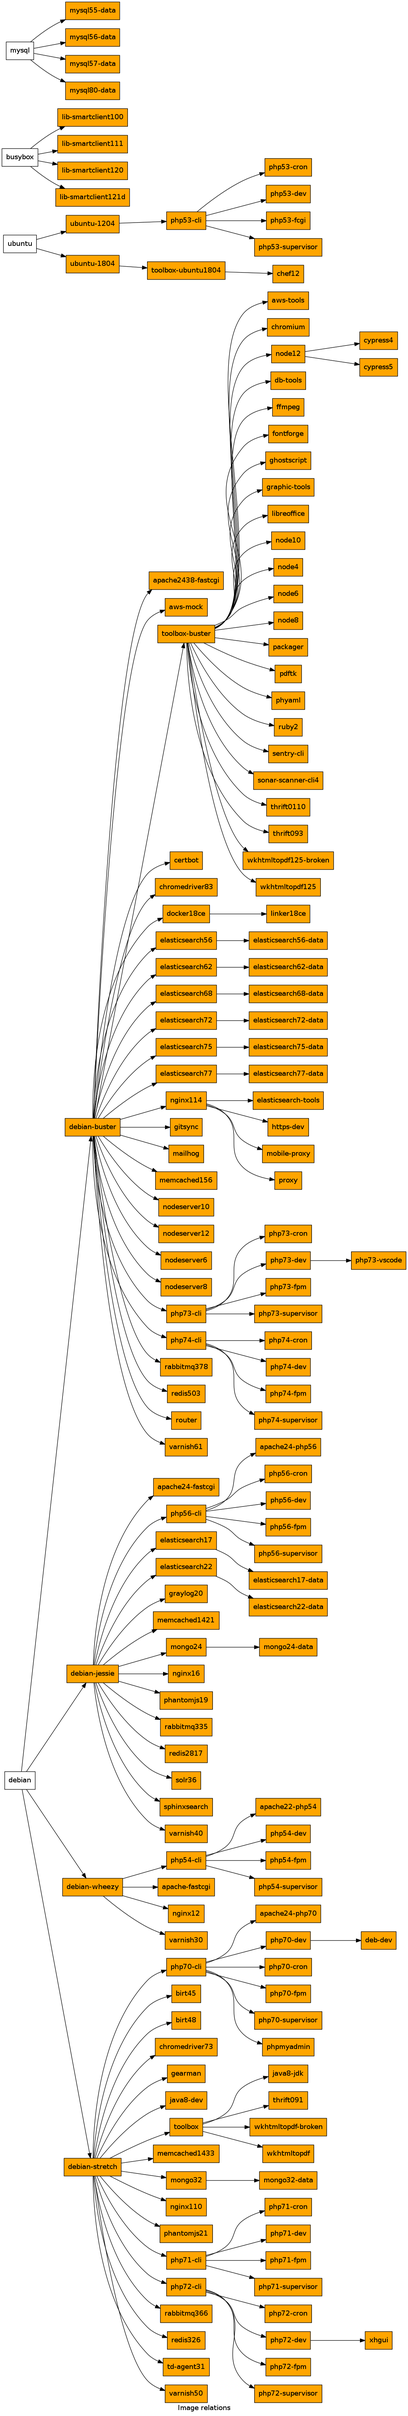
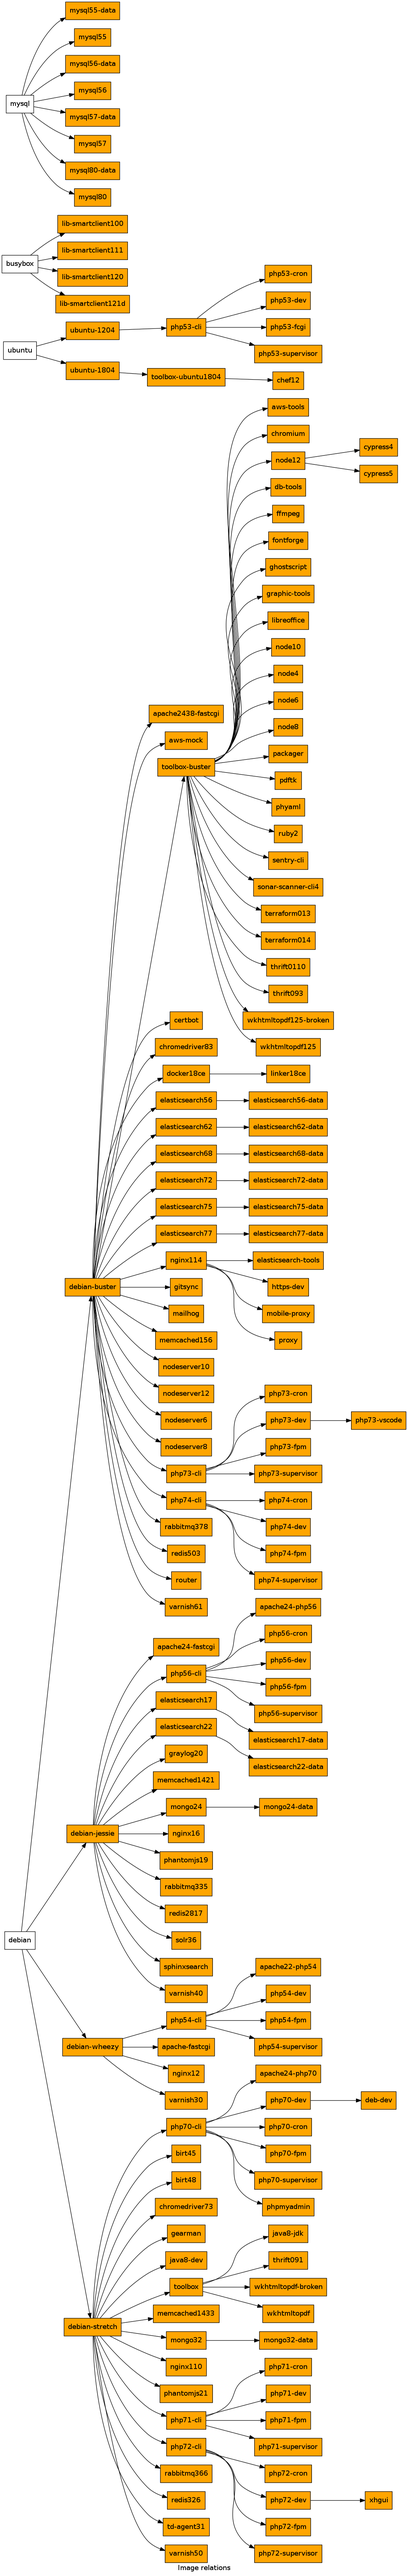
Terraform 0.14 and 0.13 containers added (#39)
* Terraform 0.14 and 0.13 containers added

* Regenerated image_relations

* Terraform image building fix

* Terraform013 image README typo fix

diff --git a/terraform013/README.md b/terraform013/README.md
@@ -1,0 +1,97 @@
+## Terraform toolbox
+
+### Info
+This is an image of terraform 0.13
+
+For help with Terraform visit project [homepage](https://www.terraform.io/docs/index.html) for documentation and guides.
+
+### Global packages
+This image has pre-installed terraform development tool
+
+ - Terraform
+
+### Configuration
+Available binary paths for export:
+
+- /usr/local/bin/terraform
+
+To auth via env vars passed to dev container use
+something like this in your init script to place
+them in the .aws dir for terraform to find them
+on execution.
+
+```bash
+until terraform --version &>/dev/null
+do
+	sleep 1
+	echo Waiting for terraform link ...
+done
+
+aws configure set aws_access_key_id "${NFQ_SECRET_AWS_ACCESS_KEY_ID}"
+aws configure set aws_secret_access_key "${NFQ_SECRET_AWS_SECRET_ACCESS_KEY}"
+```
+
+### Sample configuration for runing as tool
+```
+version: '2.4'
+services:
+  dev:
+    image: nfqlt/php73-dev
+    ports:
+      - '10.24.1.241:22:22'
+    volumes_from:
+      - 'service:terraform:rw'
+    volumes:
+      - './src:/home/project/src'
+      - '/home/project/.ssh:/home/project/.ssh'
+      - '/etc/ssh:/etc/ssh'
+      - '/etc/gitconfig:/etc/gitconfig'
+      - '/etc/environment:/etc/environment-vm:ro'
+      - '/vagrant/bash_custom:/home/project/.bash_custom'
+    environment:
+      NFQ_PROJECT_ROOT: /home/project/src
+      NFQ_PROJECT_GIT_REPO: 'git@github.com:group/project.git'
+      NFQ_PROJECT_GIT_BRANCH: master
+      NFQ_INIT_SCRIPT: tools/docker/develop_init.sh
+      NFQ_SECRET_AWS_ACCESS_KEY_ID: '${NFQ_SECRET_AWS_ACCESS_KEY_ID}'
+      NFQ_SECRET_AWS_SECRET_ACCESS_KEY: '${NFQ_SECRET_AWS_SECRET_ACCESS_KEY}'
+      NFQ_REMOTE_TOOL_TERRAFORM: >
+        /usr/local/bin/terraform
+      NFQ_REMOTE_TOOL_AWS: >
+        /usr/local/bin/aws
+
+
+  terraform:
+    image: nfqlt/terraform013
+    volumes_from:
+      - 'service:aws:rw'
+    volumes:
+      - './src:/home/project/src'
+
+
+  aws:
+    image: nfqlt/aws-tools
+    volumes:
+      - /home/project/.aws
+      - /tmp
+
+
+  linker:
+    image: nfqlt/linker18ce
+    volumes:
+      - '/run/docker.sock:/run/docker.sock'
+
+
+volumes: {  }
+networks:
+  default:
+    ipam:
+      config:
+        -
+          subnet: 10.24.1.241/28
+
+```
+
+Start the container by running:
+
+```export NFQ_SECRET_AWS_ACCESS_KEY_ID=KEY; export NFQ_SECRET_AWS_SECRET_ACCESS_KEY=SECRET; docker-compose up```

diff --git a/terraform014/README.md b/terraform014/README.md
@@ -1,0 +1,97 @@
+## Terraform toolbox
+
+### Info
+This is an image of terraform 0.14
+
+For help with Terraform visit project [homepage](https://www.terraform.io/docs/index.html) for documentation and guides.
+
+### Global packages
+This image has pre-installed terraform development tool
+
+ - Terraform
+
+### Configuration
+Available binary paths for export:
+
+- /usr/local/bin/terraform
+
+To auth via env vars passed to dev container use
+something like this in your init script to place
+them in the .aws dir for terraform to find them
+on execution.
+
+```bash
+until terraform --version &>/dev/null
+do
+	sleep 1
+	echo Waiting for terraform link ...
+done
+
+aws configure set aws_access_key_id "${NFQ_SECRET_AWS_ACCESS_KEY_ID}"
+aws configure set aws_secret_access_key "${NFQ_SECRET_AWS_SECRET_ACCESS_KEY}"
+```
+
+### Sample configuration for runing as tool
+```
+version: '2.4'
+services:
+  dev:
+    image: nfqlt/php73-dev
+    ports:
+      - '10.24.1.241:22:22'
+    volumes_from:
+      - 'service:terraform:rw'
+    volumes:
+      - './src:/home/project/src'
+      - '/home/project/.ssh:/home/project/.ssh'
+      - '/etc/ssh:/etc/ssh'
+      - '/etc/gitconfig:/etc/gitconfig'
+      - '/etc/environment:/etc/environment-vm:ro'
+      - '/vagrant/bash_custom:/home/project/.bash_custom'
+    environment:
+      NFQ_PROJECT_ROOT: /home/project/src
+      NFQ_PROJECT_GIT_REPO: 'git@github.com:group/project.git'
+      NFQ_PROJECT_GIT_BRANCH: master
+      NFQ_INIT_SCRIPT: tools/docker/develop_init.sh
+      NFQ_SECRET_AWS_ACCESS_KEY_ID: '${NFQ_SECRET_AWS_ACCESS_KEY_ID}'
+      NFQ_SECRET_AWS_SECRET_ACCESS_KEY: '${NFQ_SECRET_AWS_SECRET_ACCESS_KEY}'
+      NFQ_REMOTE_TOOL_TERRAFORM: >
+        /usr/local/bin/terraform
+      NFQ_REMOTE_TOOL_AWS: >
+        /usr/local/bin/aws
+
+
+  terraform:
+    image: nfqlt/terraform014
+    volumes_from:
+      - 'service:aws:rw'
+    volumes:
+      - './src:/home/project/src'
+
+
+  aws:
+    image: nfqlt/aws-tools
+    volumes:
+      - /home/project/.aws
+      - /tmp
+
+
+  linker:
+    image: nfqlt/linker18ce
+    volumes:
+      - '/run/docker.sock:/run/docker.sock'
+
+
+volumes: {  }
+networks:
+  default:
+    ipam:
+      config:
+        -
+          subnet: 10.24.1.241/28
+
+```
+
+Start the container by running:
+
+```export NFQ_SECRET_AWS_ACCESS_KEY_ID=KEY; export NFQ_SECRET_AWS_SECRET_ACCESS_KEY=SECRET; docker-compose up```
